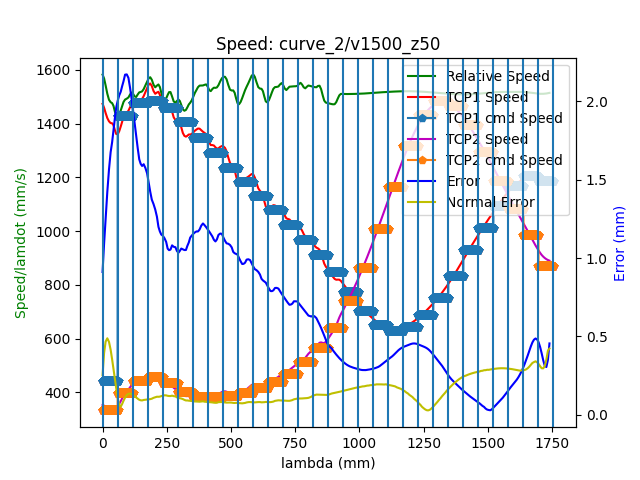
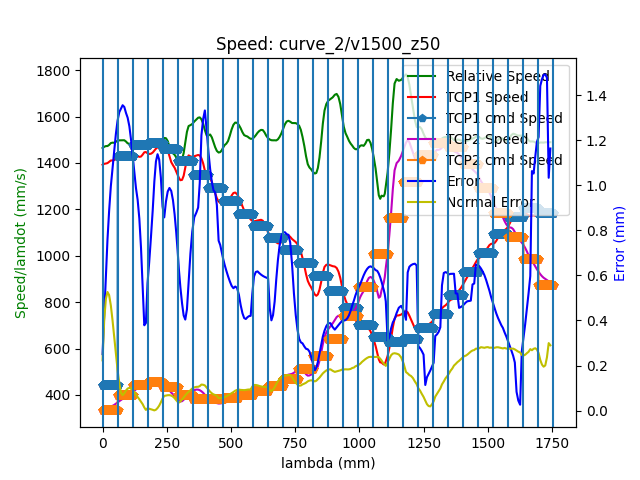
baseline testing

diff --git a/temp/temp.py b/temp/temp.py
@@ -6,13 +6,15 @@ from robots_def import *
 from MotionSend import *
 
 robot=robot_obj('ABB_1200_5_90','../config/abb_1200_5_90_robot_default_config.yml')
-client = MotionProgramExecClient(base_url="http://127.0.0.1:80")
+# client = MotionProgramExecClient(base_url="http://127.0.0.1:80")
+client = MotionProgramExecClient(base_url="http://192.168.55.1:80")
+
 
 R=np.array([[-1,0,0],
 			[0,1,0],
 			[0,0,-1]])
-p1=np.array([200,0,300])
-p2=np.array([800,0,300])
+p1=np.array([400,0,300])
+p2=np.array([500,0,300])
 p3=np.array([500,300,300])
 
 q1=robot.inv(p1,R,np.zeros(6))[0]
@@ -25,11 +27,16 @@ mp2.WaitTime(1)
 def linear(q1,q2):
 	mp = MotionProgram()
 	mp.MoveAbsJ(jointtarget(np.degrees(q1),[0]*6),v100,fine)
-	mp.WaitTime(1)
+	# mp.WaitTime(5)
 	pose_end=robot.fwd(q2)
 	cf=quadrant(q2,robot)
 	t=robtarget(pose_end.p, R2q(pose_end.R), confdata(cf[0],cf[1],cf[2],cf[3]),[0]*6)
-	mp.MoveL(t,v100,fine)
+	mp.MoveL(t,v10,fine)
+
+	pose_start=robot.fwd(q1)
+	cf=quadrant(q1,robot)
+	t=robtarget(pose_start.p, R2q(pose_start.R), confdata(cf[0],cf[1],cf[2],cf[3]),[0]*6)
+	mp.MoveL(t,v10,fine)
 
 	
 	client.execute_multimove_motion_program([mp2,mp])
@@ -37,7 +44,7 @@ def linear(q1,q2):
 def arc(q1,q3,q2):
 	mp = MotionProgram()
 	mp.MoveAbsJ(jointtarget(np.degrees(q1),[0]*6),v100,fine)
-	mp.WaitTime(1)
+	mp.WaitTime(5)
 	pose_end=robot.fwd(q3)
 	cf=quadrant(q3,robot)
 	t1=robtarget(pose_end.p, R2q(pose_end.R), confdata(cf[0],cf[1],cf[2],cf[3]),[0]*6)
@@ -50,15 +57,16 @@ def arc(q1,q3,q2):
 	client.execute_multimove_motion_program([mp2,mp])
 
 def rotate(q1,theta):
-	v_temp=speeddata(100,50,9999999,999999)
+	v_temp=speeddata(100,9,9999999,999999)
 	mp = MotionProgram()
-	mp.MoveAbsJ(jointtarget(np.degrees(q1),[0]*6),v_temp,fine)
-	mp.WaitTime(1)
+	# mp.MoveAbsJ(jointtarget(np.degrees(q1),[0]*6),v_temp,fine)
+
 	q1_new=copy.deepcopy(q1)
 	q1_new[-1]+=theta
-
 	
 	mp.MoveAbsJ(jointtarget(np.degrees(q1_new),[0]*6),v_temp,fine)
+	# mp.MoveAbsJ(jointtarget(np.degrees(q1),[0]*6),v_temp,fine)
+
 	client.execute_multimove_motion_program([mp2,mp])
 
 

diff --git a/realrobot/curve2_jog_single.py b/realrobot/curve2_jog_single.py
@@ -32,4 +32,4 @@ client = MotionProgramExecClient(base_url="http://192.168.55.1:80")
 # Execute both motion programs simultaneously
 log_results = client.execute_multimove_motion_program([mp1,mp2])
 
-client.abb_client.logout()
+# client.abb_client.logout()
